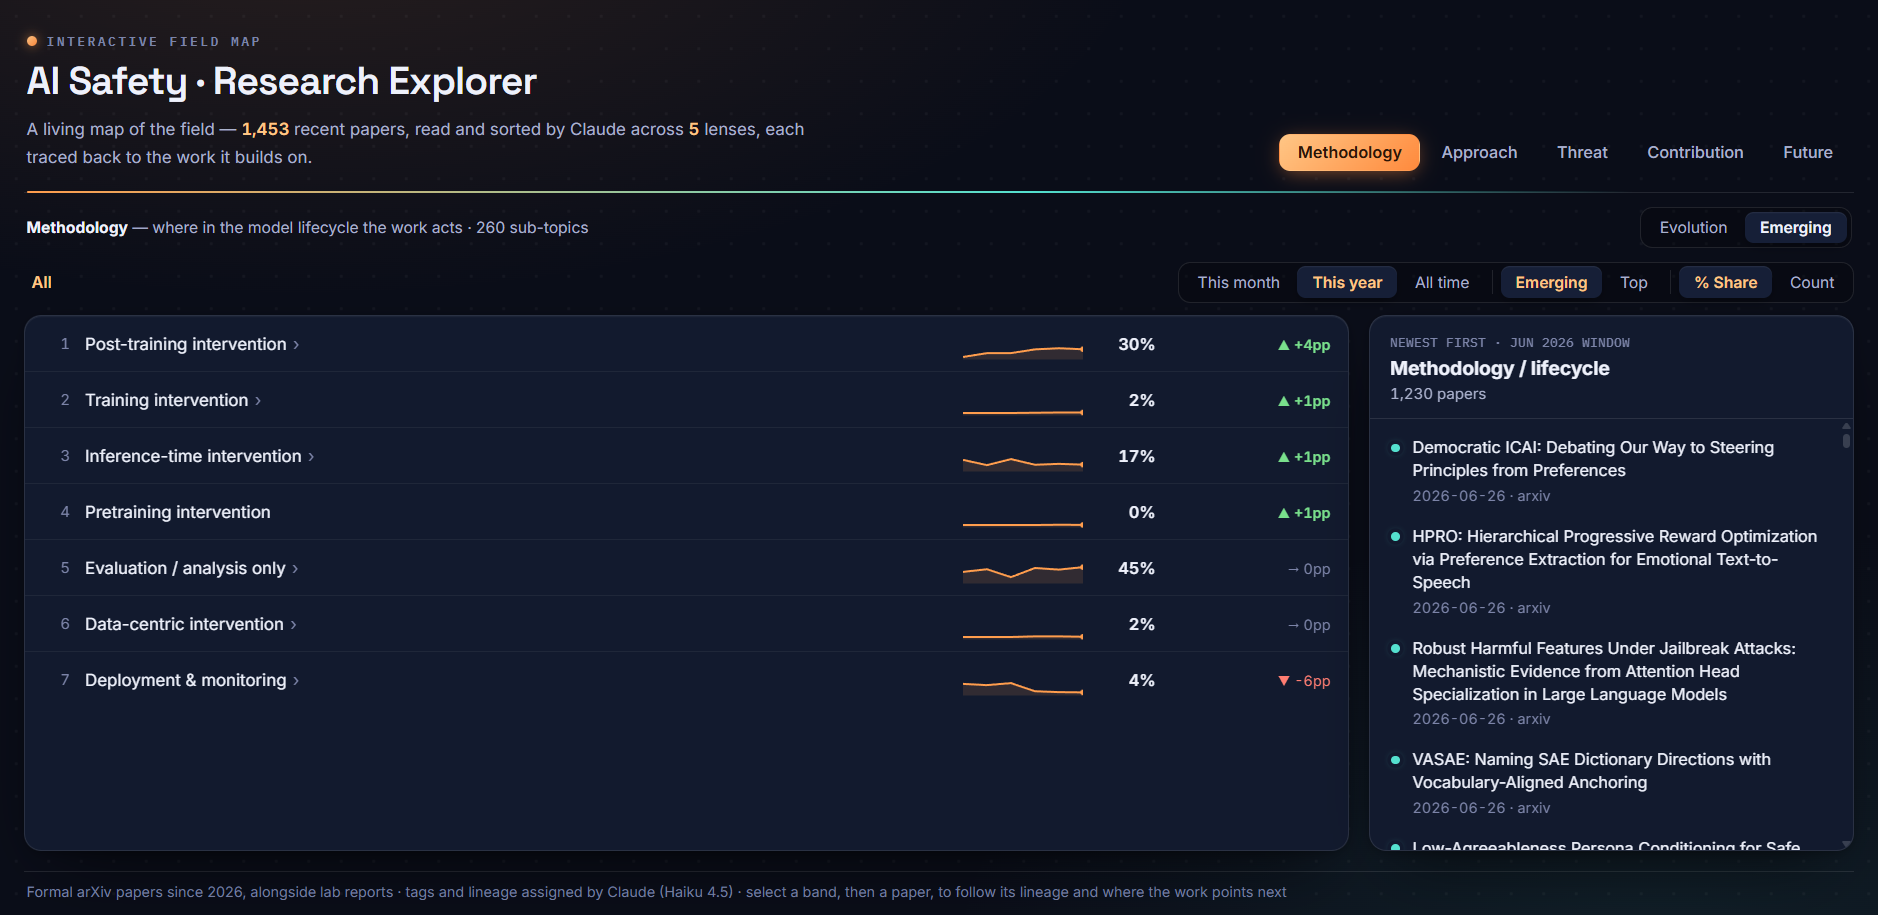
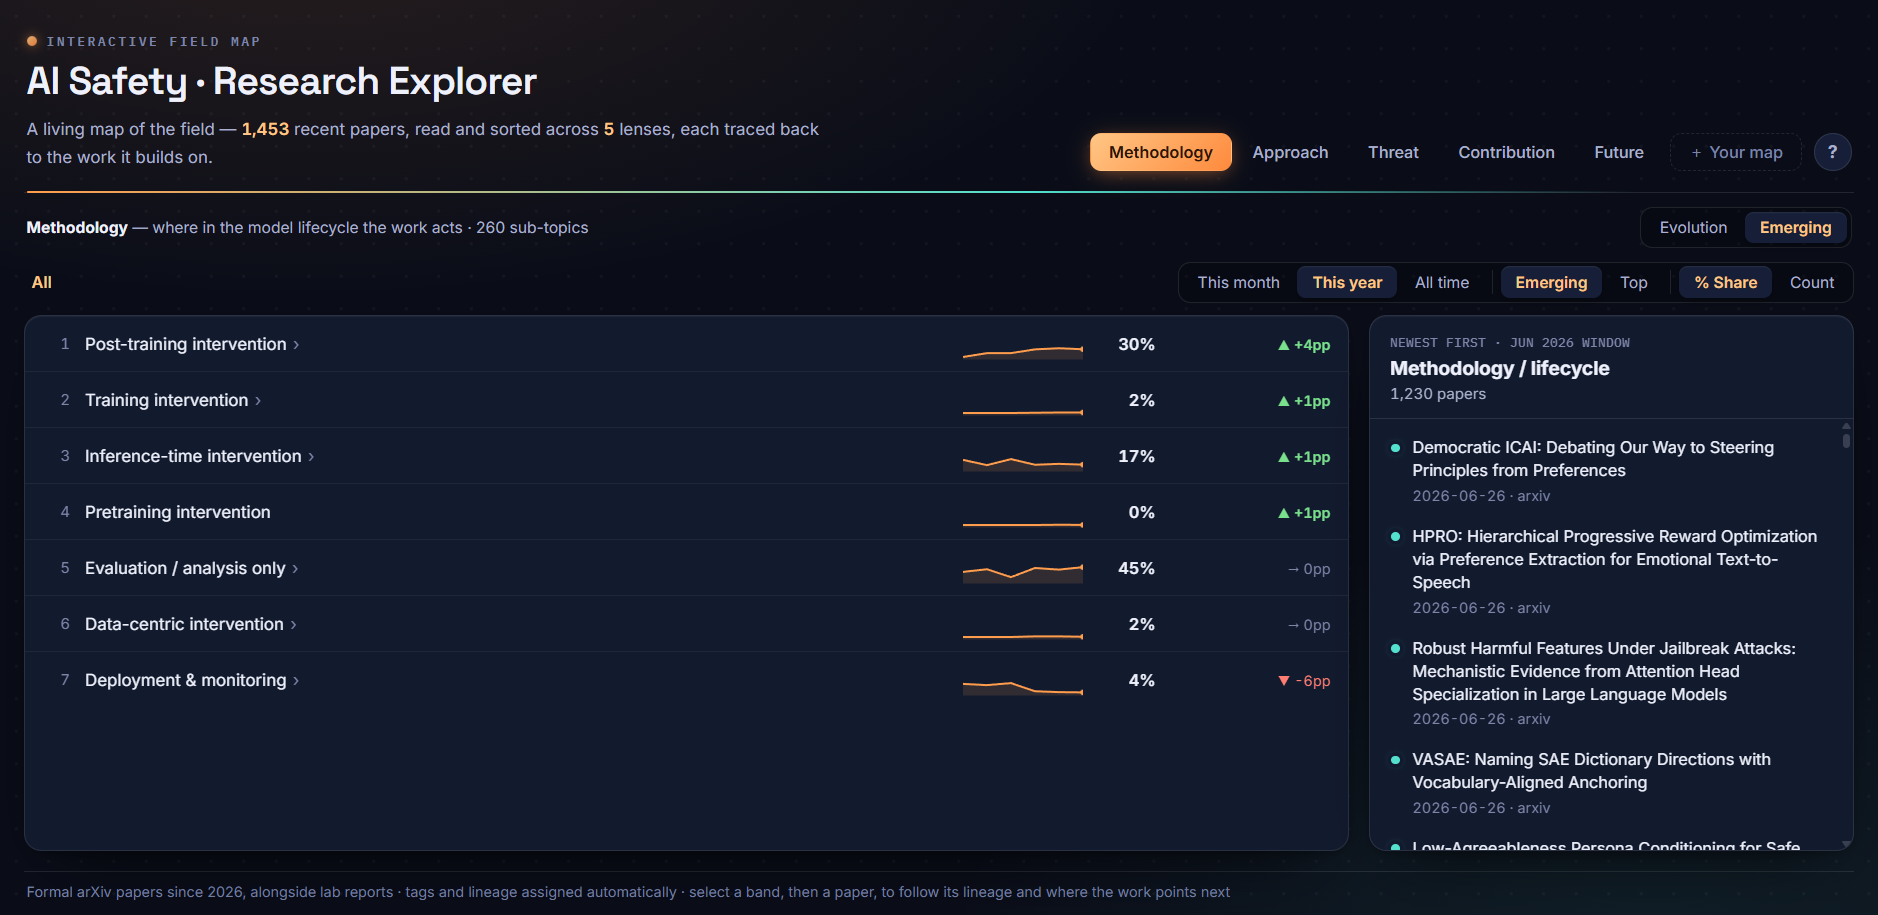
Remove Claude attribution from site copy
Drops "sorted by Claude" / "assigned by Claude (Haiku 4.5)" from the
masthead, footer, and help/coming-soon copy, and recaptures the help
screenshots so the baked-in UI text matches.

diff --git a/src/App.tsx b/src/App.tsx
@@ -66,7 +66,7 @@ export default function App() {
           <h1>AI Safety · Research Explorer</h1>
           <p className="lede">
             A living map of the field — <b>{n_papers.toLocaleString()}</b> recent papers,
-            read and sorted by Claude across <b>{FACET_ORDER.length}</b> lenses, each traced
+            read and sorted across <b>{FACET_ORDER.length}</b> lenses, each traced
             back to the work it builds on.
           </p>
         </div>
@@ -130,7 +130,7 @@ export default function App() {
 
       <footer className="foot">
         Formal arXiv papers since {since.slice(0, 4)}, alongside lab reports · tags and lineage
-        assigned by Claude (Haiku 4.5) · select a band, then a paper, to follow its lineage and
+        assigned automatically · select a band, then a paper, to follow its lineage and
         where the work points next
       </footer>
     </div>

diff --git a/src/components/ComingSoon.tsx b/src/components/ComingSoon.tsx
@@ -16,7 +16,7 @@ export function ComingSoon({ onClose }: { onClose: () => void }) {
         <div className="soon__badge">Coming soon</div>
         <h2 className="soon__title">Create your own map</h2>
         <p className="soon__text">
-          Soon you'll be able to describe the axis you care about, and Claude will re-sort the
+          Soon you'll be able to describe the axis you care about, and we'll re-sort the
           whole corpus into a custom lens shaped by your question — the same way Methodology,
           Approach, Threat, Contribution, and Future work today.
         </p>

diff --git a/src/components/Help.tsx b/src/components/Help.tsx
@@ -83,7 +83,7 @@ export function Help({ onClose }: { onClose: () => void }) {
             imgAlt="A paper detail sheet showing its description, lineage timeline, and future direction"
           >
             Click any paper to see what it does, the canonical work it traces back to, and where
-            that line of research points next — all assigned automatically by Claude.
+            that line of research points next — all assigned automatically.
           </Step>
         </div>
       </div>